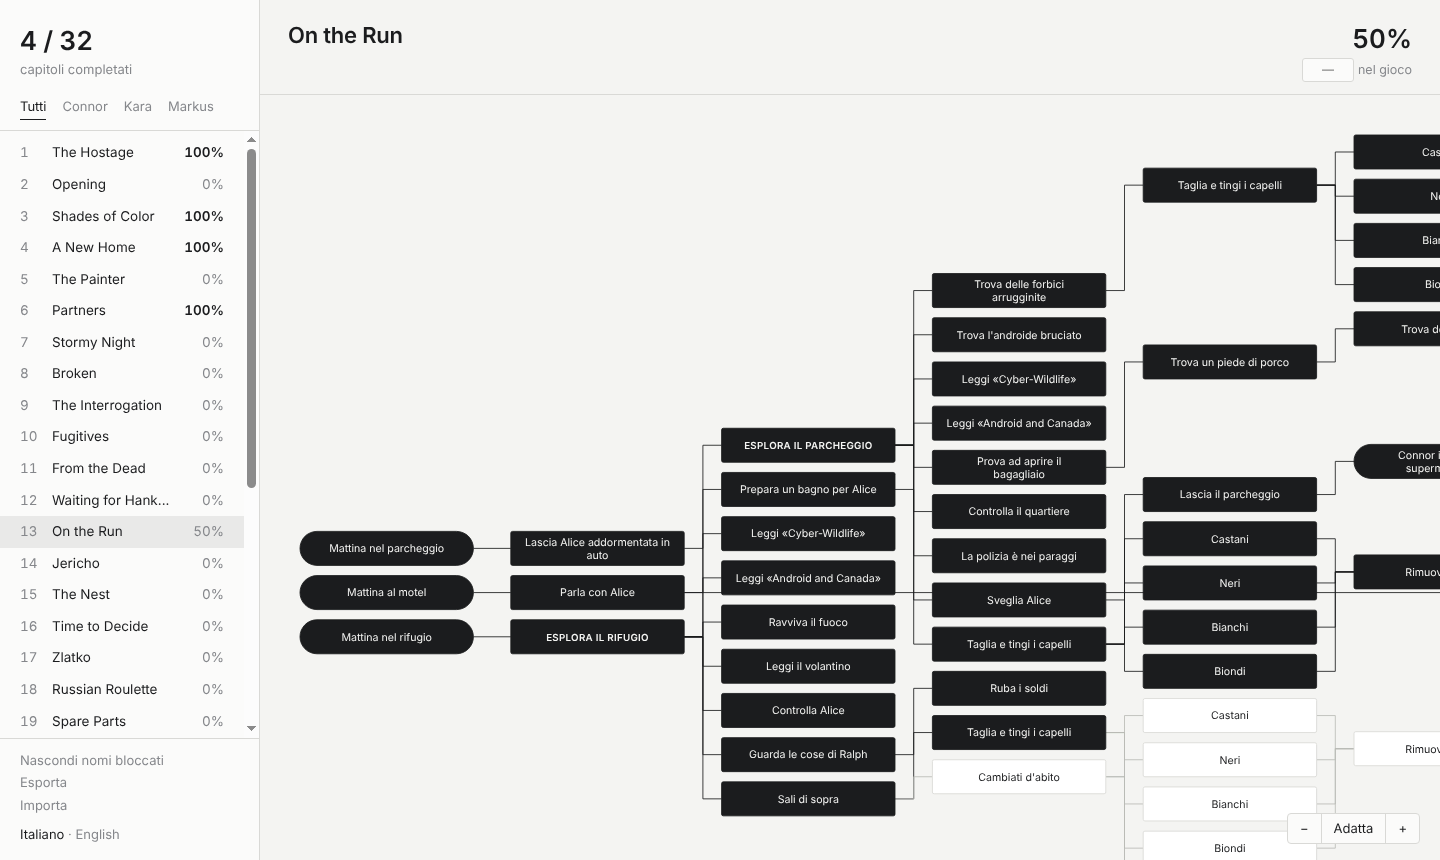
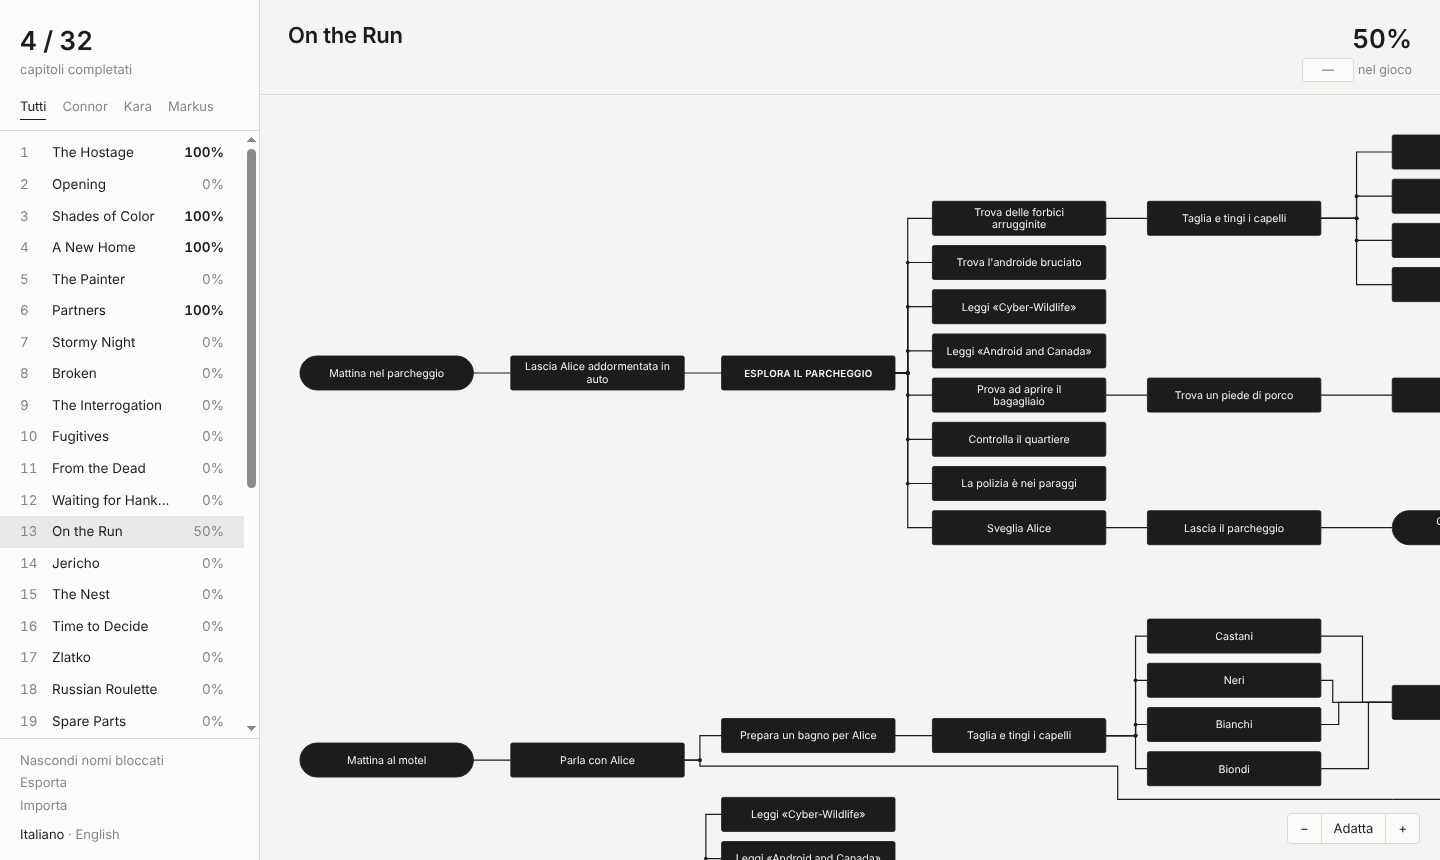
Add files via upload

Changed region(s): [[0.1875, 0.1512, 1.0, 1.0], [0.8438, 0.9674, 0.875, 0.9977]]

diff --git a/renderer/layout.js b/renderer/layout.js
@@ -1,0 +1,221 @@
+// Disposizione dei diagrammi da sinistra a destra (metodo a livelli, "Sugiyama"):
+// 1. colonne: ogni nodo va una colonna dopo il più lontano dei suoi genitori;
+// 2. i collegamenti che saltano colonne ricevono una corsia propria (nodi fittizi),
+//    così non passano mai dietro a una casella;
+// 3. l'ordine dentro ogni colonna è scelto per ridurre gli incroci;
+// 4. la posizione verticale avvicina ogni nodo ai suoi vicini senza sovrapposizioni;
+// 5. tra due colonne ogni nodo di partenza ha la sua linea verticale.
+const Layout = (() => {
+  const W = 204, H = 40, GY = 12;       // casella e spazio verticale tra caselle
+  const LANE = 9;                       // spazio tra corsie di collegamenti lunghi
+  const TRACK = 7, GAP_MIN = 44, GAP_PAD = 14;
+
+  function columns(nodes) {
+    const map = new Map(nodes.map(n => [n.id, n])), depth = new Map(), kids = new Map();
+    nodes.forEach(n => n.parents.forEach(p => { if (map.has(p)) (kids.get(p) || kids.set(p, []).get(p)).push(n.id); }));
+    const d = (n, seen = new Set()) => {
+      if (depth.has(n.id)) return depth.get(n.id);
+      if (seen.has(n.id)) return 0;
+      seen.add(n.id);
+      const ps = n.parents.map(p => map.get(p)).filter(Boolean);
+      const v = ps.length ? Math.max(...ps.map(p => d(p, seen))) + 1 : 0;
+      depth.set(n.id, v); return v;
+    };
+    nodes.forEach(n => d(n));
+    // i nodi senza genitori (requisiti da capitoli precedenti) vanno subito prima del primo figlio
+    nodes.forEach(n => {
+      if (n.parents.some(p => map.has(p))) return;
+      const k = (kids.get(n.id) || []).map(id => depth.get(id));
+      if (k.length) depth.set(n.id, Math.max(0, Math.min(...k) - 1));
+    });
+    return { map, depth };
+  }
+
+  // Grafo a livelli con i nodi fittizi; ogni collegamento originale diventa una catena di segmenti
+  function build(nodes) {
+    const { map, depth } = columns(nodes);
+    const V = [], byId = new Map();
+    const add = (id, layer, real, idx) => { const v = { id, layer, real, idx, up: [], down: [], y: 0 }; V.push(v); byId.set(id, v); return v; };
+    nodes.forEach((n, i) => add(n.id, depth.get(n.id), true, i));
+    const edges = [];
+    let dn = 0;
+    nodes.forEach(c => c.parents.forEach(pid => {
+      if (!map.has(pid)) return;
+      const chain = [byId.get(pid)];
+      for (let l = depth.get(pid) + 1; l < depth.get(c.id); l++) chain.push(add("~" + dn++, l, false, Infinity));
+      chain.push(byId.get(c.id));
+      for (let i = 0; i + 1 < chain.length; i++) { chain[i].down.push(chain[i + 1]); chain[i + 1].up.push(chain[i]); }
+      edges.push({ p: pid, c: c.id, chain });
+    }));
+    const layers = [];
+    V.forEach(v => (layers[v.layer] = layers[v.layer] || []).push(v));
+    for (let i = 0; i < layers.length; i++) layers[i] = layers[i] || [];
+    return { V, byId, layers, edges };
+  }
+
+  /* ---------- ordine nelle colonne ---------- */
+  const setOrder = L => L.forEach((v, i) => { v.o = i; });
+  function crossings(L) {   // incroci tra la colonna L e la successiva
+    const e = [];
+    L.forEach(u => u.down.forEach(v => e.push([u.o, v.o])));
+    e.sort((a, b) => a[0] - b[0] || a[1] - b[1]);
+    let c = 0;
+    for (let i = 0; i < e.length; i++) for (let j = i + 1; j < e.length; j++) if (e[j][0] > e[i][0] && e[j][1] < e[i][1]) c++;
+    return c;
+  }
+  const total = layers => layers.reduce((s, L) => s + crossings(L), 0);
+  function sweep(layers, down, useMedian) {
+    const seq = down ? layers.map((_, i) => i).slice(1) : layers.map((_, i) => i).reverse().slice(1);
+    seq.forEach(k => {
+      const L = layers[k];
+      L.forEach(v => {
+        // i nodi senza vicini da quel lato guardano l'altro lato (es. i requisiti)
+        const nb = (down ? v.up : v.down).length ? (down ? v.up : v.down) : (down ? v.down : v.up);
+        if (!nb.length) { v.key = v.o; return; }
+        const s = nb.map(u => u.o).sort((a, b) => a - b), m = s.length >> 1;
+        v.key = useMedian ? (s.length % 2 ? s[m] : (s[m - 1] + s[m]) / 2) : s.reduce((a, b) => a + b, 0) / s.length;
+      });
+      L.sort((a, b) => a.key - b.key || a.o - b.o);
+      setOrder(L);
+    });
+  }
+  // scambia caselle vicine quando lo scambio riduce gli incroci con le colonne accanto
+  function pairCross(u, v) {
+    let c = 0;
+    for (const side of ["up", "down"]) for (const a of u[side]) for (const b of v[side]) if (a.o > b.o) c++;
+    return c;
+  }
+  function transpose(layers) {
+    for (let pass = 0, again = true; again && pass < 6; pass++) {
+      again = false;
+      layers.forEach(L => {
+        for (let i = 0; i + 1 < L.length; i++) {
+          const u = L[i], v = L[i + 1];
+          if (pairCross(u, v) > pairCross(v, u)) { L[i] = v; L[i + 1] = u; setOrder(L); again = true; }
+        }
+      });
+    }
+  }
+  // Varie strategie (mediana o media, partendo dall'ordine dei dati o a rovescio):
+  // si tiene l'ordine con meno incroci
+  function order(layers) {
+    let best = null, bestC = Infinity;
+    for (const start of [1, -1]) for (const useMedian of [true, false]) {
+      layers.forEach(L => { L.sort((a, b) => start * (a.idx - b.idx) || start * (a.layer - b.layer)); setOrder(L); });
+      for (let it = 0; it < 24 && bestC > 0; it++) {
+        sweep(layers, it % 2 === 0, useMedian); transpose(layers);
+        const c = total(layers);
+        if (c < bestC) { bestC = c; best = layers.map(L => L.slice()); }
+      }
+    }
+    best.forEach((L, k) => { layers[k] = L; setOrder(L); });
+    return bestC;
+  }
+
+  /* ---------- posizione verticale ---------- */
+  const half = v => v.real ? H / 2 : 0;
+  const sep = (a, b) => half(a) + half(b) + (a.real && b.real ? GY : a.real || b.real ? LANE + 7 : LANE);
+  // Regressione isotonica (pool adjacent violators): posizioni il più vicine possibile ai
+  // desideri, nello stesso ordine e alla distanza minima
+  function fitLayer(L, want, weight) {
+    const off = [0];
+    for (let i = 1; i < L.length; i++) off[i] = off[i - 1] + sep(L[i - 1], L[i]);
+    const blocks = [];
+    L.forEach((v, i) => {
+      blocks.push({ s: i, e: i, w: weight[i], m: want[i] - off[i] });
+      while (blocks.length > 1 && blocks[blocks.length - 2].m >= blocks[blocks.length - 1].m) {
+        const b = blocks.pop(), a = blocks[blocks.length - 1];
+        a.m = (a.m * a.w + b.m * b.w) / (a.w + b.w); a.w += b.w; a.e = b.e;
+      }
+    });
+    blocks.forEach(b => { for (let i = b.s; i <= b.e; i++) L[i].y = b.m + off[i]; });
+  }
+  function vertical(layers) {
+    layers.forEach(L => { let y = 0; L.forEach((v, i) => { if (i) y += sep(L[i - 1], v); v.y = y; }); });
+    const mean = a => a.reduce((s, u) => s + u.y, 0) / a.length;
+    for (let it = 0; it < 16; it++) {
+      const mode = it % 3;   // 0: verso i genitori, 1: verso i figli, 2: entrambi
+      const seq = mode === 1 ? layers.map((_, i) => i).reverse() : layers.map((_, i) => i);
+      seq.forEach(k => {
+        const L = layers[k];
+        if (!L.length) return;
+        const want = [], weight = [];
+        L.forEach(v => {
+          const nb = mode === 0 ? v.up : mode === 1 ? v.down : v.up.concat(v.down);
+          want.push(nb.length ? mean(nb) : v.y);
+          weight.push(nb.length ? (v.real ? 1 : 4) : 0.25);   // le corsie stanno dritte
+        });
+        fitLayer(L, want, weight);
+      });
+    }
+  }
+
+  /* ---------- ordine delle linee verticali tra due colonne ---------- */
+  // Incroci se la linea di "a" sta a sinistra di quella di "b": la verticale di a taglia
+  // l'uscita orizzontale di b, e la verticale di b taglia gli ingressi di a
+  function span(u) { const ys = u.down.map(v => v.y).concat(u.y); return [Math.min(...ys), Math.max(...ys)]; }
+  const inside = (y, s) => y > s[0] + 0.5 && y < s[1] - 0.5;
+  function leftCost(a, b) {
+    const sa = span(a), sb = span(b);
+    return (inside(b.y, sa) ? 1 : 0) + a.down.filter(v => !b.down.includes(v) && inside(v.y, sb)).length;
+  }
+  function orderTracks(buses) {
+    if (buses.length < 2) return;
+    const n = buses.length, C = buses.map(a => buses.map(b => a === b ? 0 : leftCost(a, b)));
+    // prima stima: quante volte conviene stare a sinistra, poi scambi tra vicini finché migliora
+    const idx = buses.map((_, i) => i);
+    const score = i => idx.reduce((s, j) => s + C[i][j] - C[j][i], 0);
+    idx.sort((i, j) => score(i) - score(j) || buses[i].y - buses[j].y);
+    for (let pass = 0, again = true; again && pass < n; pass++) {
+      again = false;
+      for (let k = 0; k + 1 < n; k++) if (C[idx[k]][idx[k + 1]] > C[idx[k + 1]][idx[k]]) { [idx[k], idx[k + 1]] = [idx[k + 1], idx[k]]; again = true; }
+    }
+    const sorted = idx.map(i => buses[i]);
+    buses.splice(0, n, ...sorted);
+  }
+
+  /* ---------- coordinate e percorsi ---------- */
+  function layout(nodes) {
+    const g = build(nodes), layers = g.layers;
+    const crossCount = order(layers);
+    vertical(layers);
+    // linee verticali tra le colonne: una per ogni nodo di partenza che cambia altezza
+    const gaps = layers.map(L => {
+      const buses = L.filter(u => u.down.some(v => Math.abs(v.y - u.y) > 0.5));
+      orderTracks(buses);
+      const track = new Map(); buses.forEach((u, i) => track.set(u, i));
+      return { track, n: buses.length, width: Math.max(GAP_MIN, GAP_PAD * 2 + (buses.length - 1) * TRACK) };
+    });
+    const colX = []; let x = 0;
+    layers.forEach((L, k) => { colX[k] = x; x += W + gaps[k].width; });
+    const pos = new Map();
+    g.V.forEach(v => { v.x = colX[v.layer]; if (v.real) pos.set(v.id, { x: v.x, y: v.y }); });
+    const trackX = u => {
+      const gp = gaps[u.layer], i = gp.track.get(u);
+      return u.x + W / 2 + (gp.width - (gp.n - 1) * TRACK) / 2 + i * TRACK;
+    };
+    const edges = g.edges.map(e => {
+      let d = "";
+      const dots = [];
+      e.chain.forEach((u, i) => {
+        if (!u.real) d += `M${u.x - W / 2},${u.y}H${u.x + W / 2}`;       // attraversa la colonna in corsia
+        const v = e.chain[i + 1]; if (!v) return;
+        const sx = u.x + W / 2, ex = v.x - W / 2;
+        if (Math.abs(v.y - u.y) <= 0.5) { d += `M${sx},${u.y}H${ex}`; return; }
+        const tx = trackX(u);
+        d += `M${sx},${u.y}H${tx}V${v.y}H${ex}`;
+        // pallino dove la linea verticale si dirama verso questo nodo
+        const ys = u.down.map(w => w.y);
+        if (u.down.length > 1 && v.y > Math.min(...ys, u.y) + 0.5 && v.y < Math.max(...ys, u.y) - 0.5) dots.push([tx, v.y]);
+        if (u.down.length > 1 && u.y > Math.min(...ys) + 0.5 && u.y < Math.max(...ys) - 0.5) dots.push([tx, u.y]);
+      });
+      return { p: e.p, c: e.c, d, dots };
+    });
+    let x0 = Infinity, x1 = -Infinity, y0 = Infinity, y1 = -Infinity;
+    g.V.forEach(v => { x0 = Math.min(x0, v.x - W / 2); x1 = Math.max(x1, v.x + W / 2); y0 = Math.min(y0, v.y - half(v)); y1 = Math.max(y1, v.y + half(v)); });
+    return { pos, edges, bounds: nodes.length ? { x0, x1, y0, y1 } : null, crossings: crossCount };
+  }
+
+  return { layout, W, H };
+})();
+if (typeof module !== "undefined") module.exports = Layout;

diff --git a/renderer/app.js b/renderer/app.js
@@ -1,6 +1,6 @@
 const NAMES = { C: "Connor", K: "Kara", M: "Markus" };
 const KEY = "flowchart-tracker-v2";
-const W = 204, H = 40, GX = 44, GY = 12, MAXCH = 28;
+const W = Layout.W, H = Layout.H, MAXCH = 28;
 const ZMIN = 0.3, ZMAX = 2, ZFIT = 0.85;
 const bridge = window.api || null;
 
@@ -75,63 +75,12 @@ function chStats(c) {
   return { t, u, calc, shown };
 }
 
-/* ---------- layout da sinistra a destra: profondità → x, fratelli → y ---------- */
-function depths(nodes) {
-  const map = new Map(nodes.map(n => [n.id, n])), depth = new Map(), kids = new Map();
-  nodes.forEach(n => n.parents.forEach(p => { if (map.has(p)) (kids.get(p) || kids.set(p, []).get(p)).push(n.id); }));
-  const d = (n, seen = new Set()) => {
-    if (depth.has(n.id)) return depth.get(n.id);
-    if (seen.has(n.id)) return 0;
-    seen.add(n.id);
-    const ps = n.parents.map(p => map.get(p)).filter(Boolean);
-    const v = ps.length ? Math.max(...ps.map(p => d(p, seen))) + 1 : 0;
-    depth.set(n.id, v); return v;
-  };
-  nodes.forEach(n => d(n));
-  // I nodi senza genitori (requisiti da capitoli precedenti) vanno subito prima del loro primo figlio
-  nodes.forEach(n => {
-    if (n.parents.some(p => map.has(p))) return;
-    const k = (kids.get(n.id) || []).map(id => depth.get(id));
-    if (k.length) depth.set(n.id, Math.max(0, Math.min(...k) - 1));
-  });
-  return { depth, kids };
-}
-function place(nodes, depth, hint) {
-  const layers = [], pos = new Map(), step = H + GY;
-  nodes.forEach((n, i) => { const k = depth.get(n.id); (layers[k] = layers[k] || []).push({ n, i }); });
-  let free = 0;
-  layers.forEach((L, k) => {
-    if (!L) return;
-    L.forEach(o => {
-      const py = o.n.parents.map(p => pos.get(p)).filter(Boolean).map(p => p.y);
-      if (py.length) o.b = py.reduce((a, b) => a + b, 0) / py.length;
-      else if (hint && hint.has(o.n.id)) o.b = hint.get(o.n.id);
-      else o.b = (free++) * step;
-    });
-    L.sort((a, b) => a.b - b.b || a.i - b.i);
-    let y = -Infinity;
-    L.forEach(o => { y = Math.max(o.b, y + step); o.y = y; });
-    const off = L.reduce((a, o) => a + o.b - o.y, 0) / L.length;
-    L.forEach((o, j) => {
-      let yy = o.y + off;
-      if (j) yy = Math.max(yy, pos.get(L[j - 1].n.id).y + step);
-      pos.set(o.n.id, { x: k * (W + GX), y: yy });
-    });
-  });
-  return pos;
-}
-function layout(nodes) {
-  const { depth, kids } = depths(nodes);
-  let pos = place(nodes, depth, null);
-  // secondo passaggio: i nodi senza genitori si allineano ai loro figli
-  const hint = new Map();
-  nodes.forEach(n => {
-    if (n.parents.length) return;
-    const ys = (kids.get(n.id) || []).map(id => pos.get(id)).filter(Boolean).map(p => p.y);
-    if (ys.length) hint.set(n.id, ys.reduce((a, b) => a + b, 0) / ys.length);
-  });
-  if (hint.size) pos = place(nodes, depth, hint);
-  return pos;
+/* ---------- disposizione: vedi layout.js; si calcola una volta per percorso ---------- */
+const layoutCache = new WeakMap();
+function layoutOf(nodes) {
+  let L = layoutCache.get(nodes);
+  if (!L) { L = Layout.layout(nodes); layoutCache.set(nodes, L); }
+  return L;
 }
 
 /* ---------- disegno ---------- */
@@ -156,20 +105,16 @@ function renderGraph() {
   const empty = !hasData(chap());
   $("#empty").hidden = !empty;
   if (empty) { bounds = null; return; }
-  const nodes = sec().nodes, pos = layout(nodes), map = new Map(nodes.map(n => [n.id, n]));
-  let x0 = Infinity, x1 = -Infinity, y0 = Infinity, y1 = -Infinity;
-  nodes.forEach(n => {
-    const b = pos.get(n.id);
-    x0 = Math.min(x0, b.x - W / 2); x1 = Math.max(x1, b.x + W / 2); y0 = Math.min(y0, b.y - H / 2); y1 = Math.max(y1, b.y + H / 2);
-    n.parents.forEach(pid => {
-      const p = pos.get(pid), pn = map.get(pid); if (!p) return;
-      const sx = p.x + W / 2, ex = b.x - W / 2, mx = ex - GX / 2;
-      const d = p.y === b.y ? `M${sx},${p.y}H${ex}` : `M${sx},${p.y}H${mx}V${b.y}H${ex}`;
-      const e = el("path", { d, class: "edge" + (pn.unlocked && n.unlocked ? " lit" : "") }, E);
-      edgeEls.push({ e, p: pn, c: n });
-    });
+  const nodes = sec().nodes, L = layoutOf(nodes), pos = L.pos, map = new Map(nodes.map(n => [n.id, n]));
+  bounds = L.bounds;
+  // prima le linee spente, poi quelle accese, così le accese restano sopra
+  const lit = e => map.get(e.p).unlocked && map.get(e.c).unlocked;
+  [...L.edges].sort((a, b) => lit(a) - lit(b)).forEach(x => {
+    const g = el("g", { class: "edge" + (lit(x) ? " lit" : "") }, E);
+    el("path", { d: x.d }, g);
+    x.dots.forEach(([cx, cy]) => el("circle", { cx, cy, r: 2.2 }, g));
+    edgeEls.push({ e: g, p: map.get(x.p), c: map.get(x.c) });
   });
-  bounds = { x0, x1, y0, y1 };
   nodes.forEach(n => {
     const b = pos.get(n.id);
     const g = el("g", { transform: `translate(${b.x},${b.y})`, tabindex: 0, role: "checkbox" }, N);
@@ -271,7 +216,12 @@ function toggle(n) {
   n.unlocked = !n.unlocked; scheduleSave();
   const g = nodeEls.get(n.id);
   if (g) paintNode(g, n);
-  edgeEls.forEach(x => { if (x.p === n || x.c === n) x.e.classList.toggle("lit", x.p.unlocked && x.c.unlocked); });
+  edgeEls.forEach(x => {
+    if (x.p !== n && x.c !== n) return;
+    const on = x.p.unlocked && x.c.unlocked;
+    x.e.classList.toggle("lit", on);
+    if (on) x.e.parentNode.appendChild(x.e);   // le linee accese stanno sopra
+  });
   updateCounts();
   if (g && (g.matches(":hover") || document.activeElement === g)) showInfo(n);
 }

diff --git a/renderer/style.css b/renderer/style.css
@@ -77,8 +77,10 @@ input { font: inherit; color: inherit; user-select: text; }
 #svg.panning { cursor: grabbing; }
 .empty { position: absolute; inset: 0; margin: 0; display: grid; place-items: center; color: var(--dim); }
 
-.edge { fill: none; stroke: var(--edge); stroke-width: 1; }
-.edge.lit { stroke: var(--on); }
+.edge path { fill: none; stroke: var(--edge); stroke-width: 1; }
+.edge circle { fill: var(--edge); }
+.edge.lit path { stroke: var(--on); stroke-width: 1.4; }
+.edge.lit circle { fill: var(--on); }
 .node { cursor: pointer; }
 .node .box { fill: var(--node); stroke: var(--line); stroke-width: 1; }
 .node .inner { fill: none; stroke: var(--line); stroke-width: 1; }

diff --git a/renderer/index.html b/renderer/index.html
@@ -58,6 +58,7 @@
 </div>
 <script src="i18n.js"></script>
 <script src="chapters.js"></script>
+<script src="layout.js"></script>
 <script src="app.js"></script>
 </body>
 </html>
